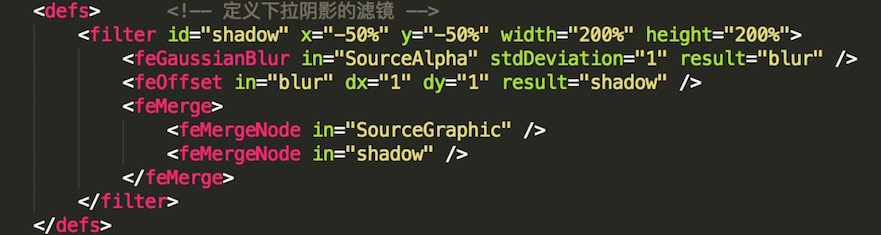
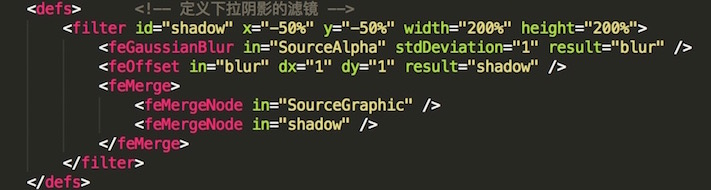
README

diff --git a/Draw/README.md b/Draw/README.md
@@ -4,26 +4,30 @@
 －	[SVG](http://baike.baidu.com/link?url=r1q72s9Mzh20NhSWE_hDhjjm_fzQq_ohCSUeyty74NIH77sgcUFH559CiAPGkSLPM9Jwib8eWJTEHlLmBVTpivNCdh6t7udQBEHm-PHVGR7)
 
 －	[canvas元素](http://www.w3school.com.cn/html5/html5_canvas.asp)
-
-		一开始，我对两个方法做了一个简单的[基础绘图示例](https://github.com/Lemon23/JavaScript/blob/master/Draw/基础绘图示例.html)，打开这个示例文件，我直观的发现了`SVG`和`canvas元素`的一个重要区别。通过之后的学习和探索，我明白了为什么会出现这种差异，这更引来了我对绘图的好奇心和求知欲。。。
+		一开始，我对两个方法做了一个简单的[基础绘图示例](https://github.com/Lemon23/JavaScript/blob/master/Draw/基础绘图示例.html)
+		打开这个示例文件，我直观的发现了`SVG`和`canvas元素`的一个重要区别。
+		通过之后的学习和探索，我明白了为什么会出现这种差异，这更引来了我对绘图的好奇心和求知欲。。。
 
 ###SVG
->		首先，`SVG`———— 可缩放矢量图形，使用XML格式定义图形，图像再放大或改变尺寸的情况下其图形质量不会有亏损。SVG这种语法比较庞大并且有一定的复杂度，它不仅可以用于简单的基本图形绘制，还支持任意曲线、文本及动画的绘制。SVG图形甚至能够整合JavaScript脚本和CSS样式表来添加行为和展示信息。
+>		首先，`SVG`———— 可缩放矢量图形，使用XML格式定义图形，图像再放大或改变尺寸的情况下其图形质量不会有亏损。
+>		SVG这种语法比较庞大并且有一定的复杂度，它不仅可以用于简单的基本图形绘制，还支持任意曲线、文本及动画的绘制。
+>		SVG图形甚至能够整合JavaScript脚本和CSS样式表来添加行为和展示信息。
 >		我将练习使用客户端JavaScript利用SVG动态绘制图形。
 >####NO.1  [使用SVG绘制饼状图](https://github.com/Lemon23/JavaScript/blob/master/Draw/使用SVG绘制饼状图.html)
 >####效果：![](https://github.com/Lemon23/JavaScript/raw/master/Draw/pic/D-1.jpeg)
 >>		该例使用XML语法来处理SVG，使用SVG命名空间以及`createElementNS()`这样的DOM方法而不是`createElement()`。
 >>		每一个饼楔都是用`<svg:path>`元素来表示，最难的是`d`属性，该属性使用简洁语法通过字符和数字来指定坐标、角度和其他值。
->>		具体参数需要参阅 [标准文档](https://www.w3.org/TR/SVG/) 。
+具体参数需要参阅 [标准文档](https://www.w3.org/TR/SVG/) 。
 
 >####NO.2 [使用SVG绘制时钟](https://github.com/Lemon23/JavaScript/blob/master/Draw/使用SVG绘制时钟.html)
 >####效果：![](https://github.com/Lemon23/JavaScript/raw/master/Draw/pic/D-2.jpeg)
->>	该例使用SVG来绘制一个动态模拟时钟，包含三个SVG`<line>元素`来分别表示分针、时针和秒针，随后通过JavaScript设置没个`<line>元素`的`transform属性`让它们旋转一定角度来现实正确的时间。
->>	其中用到了SVG滤镜效果，用来向形状和文本添加特殊的滤镜效果。
+>>		该例使用SVG来绘制一个动态模拟时钟，包含三个SVG`<line>元素`来分别表示分针、时针和秒针，随后通过JavaScript设置没个`<line>元素`的`transform属性`让它们旋转一定角度来现实正确的时间。
+>>		其中用到了SVG滤镜效果，用来向形状和文本添加特殊的滤镜效果。
 >####滤镜效果代码：![](https://github.com/Lemon23/JavaScript/raw/master/Draw/pic/D-2-1.jpeg)
->>	`<filter>`标签用来定义SVG滤镜，其中`id`属性为`shadow`表示声明定义为阴影滤镜。`<filter>`标签必须嵌套在`<defs>`标签内。
->> 	滤镜效果通过`<feGaussianBlur>`标签定义，其中的`stdDeviation`属性可定义模糊的程度。
->>	`<feOffset>`标签，表示相对于图形的当前位置来移动图像。
->>	`in="SourceGraphic"`属性定义了由整个图像创建效果
->>	通过设置`setTimeout`属性来定义时钟每1秒钟更新一次时间，这样秒针就动起来了。
+>>		`<filter>`标签用来定义SVG滤镜，其中`id`属性为`shadow`表示声明定义为阴影滤镜。`<filter>`标签必须嵌套在`<defs>`标签内。
+>> 		滤镜效果通过`<feGaussianBlur>`标签定义，其中的`stdDeviation`属性可定义模糊的程度。
+>>		`<feOffset>`标签，表示相对于图形的当前位置来移动图像。
+>>		`in="SourceGraphic"`属性定义了由整个图像创建效果
+>>		通过设置`setTimeout`属性来定义时钟每1秒钟更新一次时间，这样秒针就动起来了。
+
 		参考自《JavaScript权威指南》
